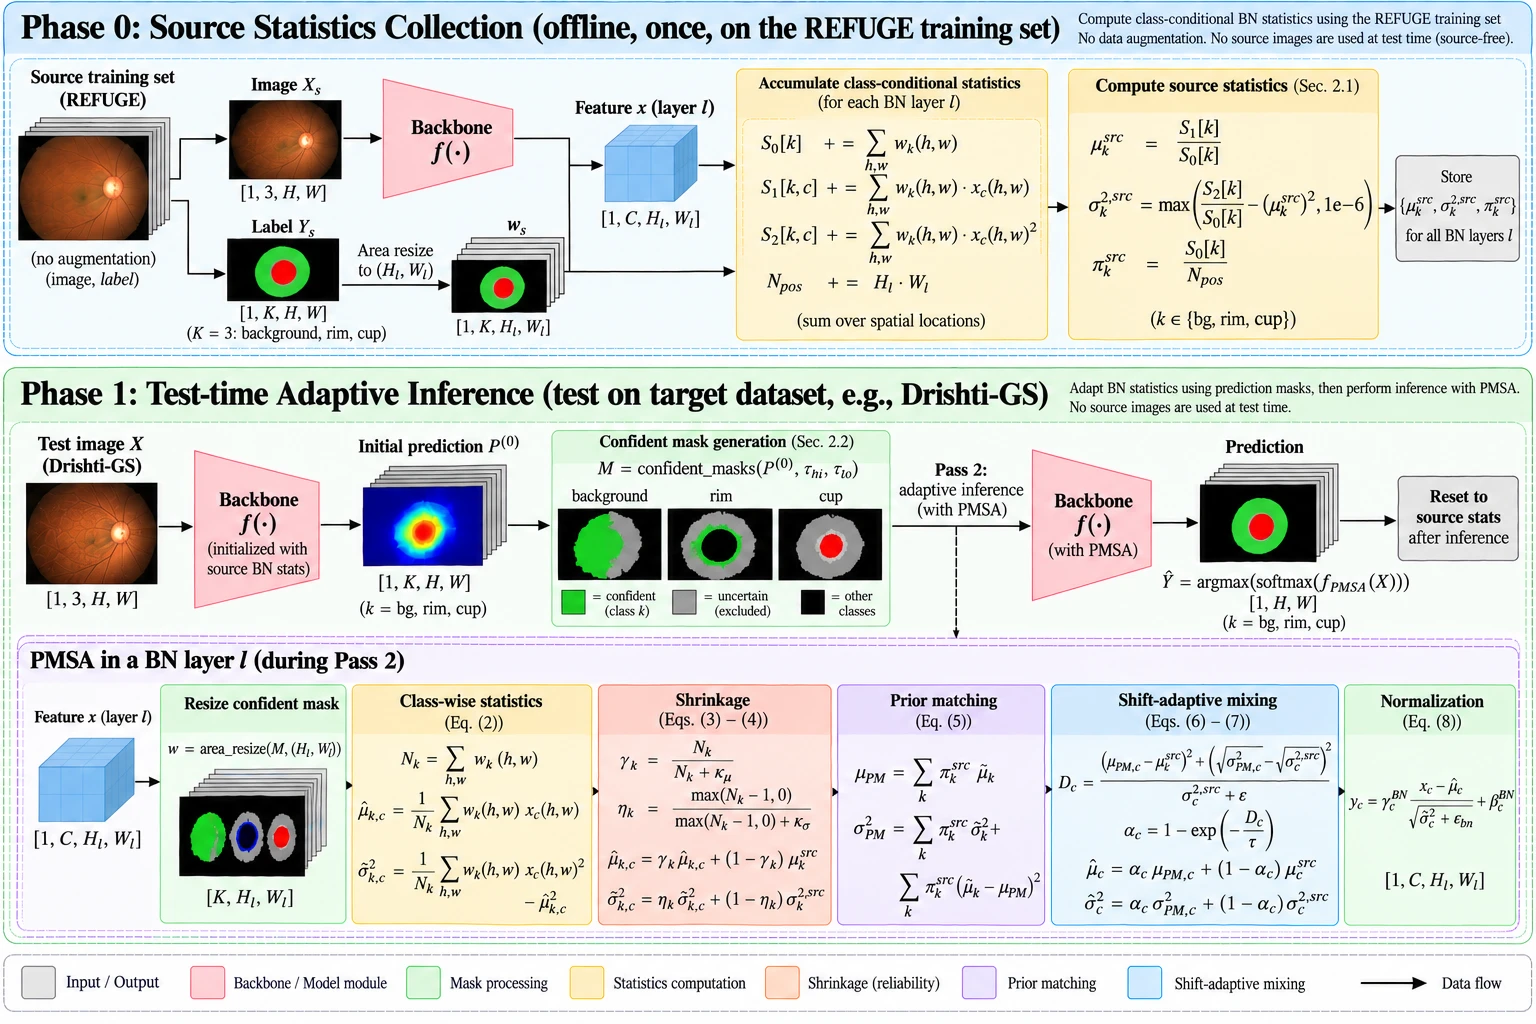
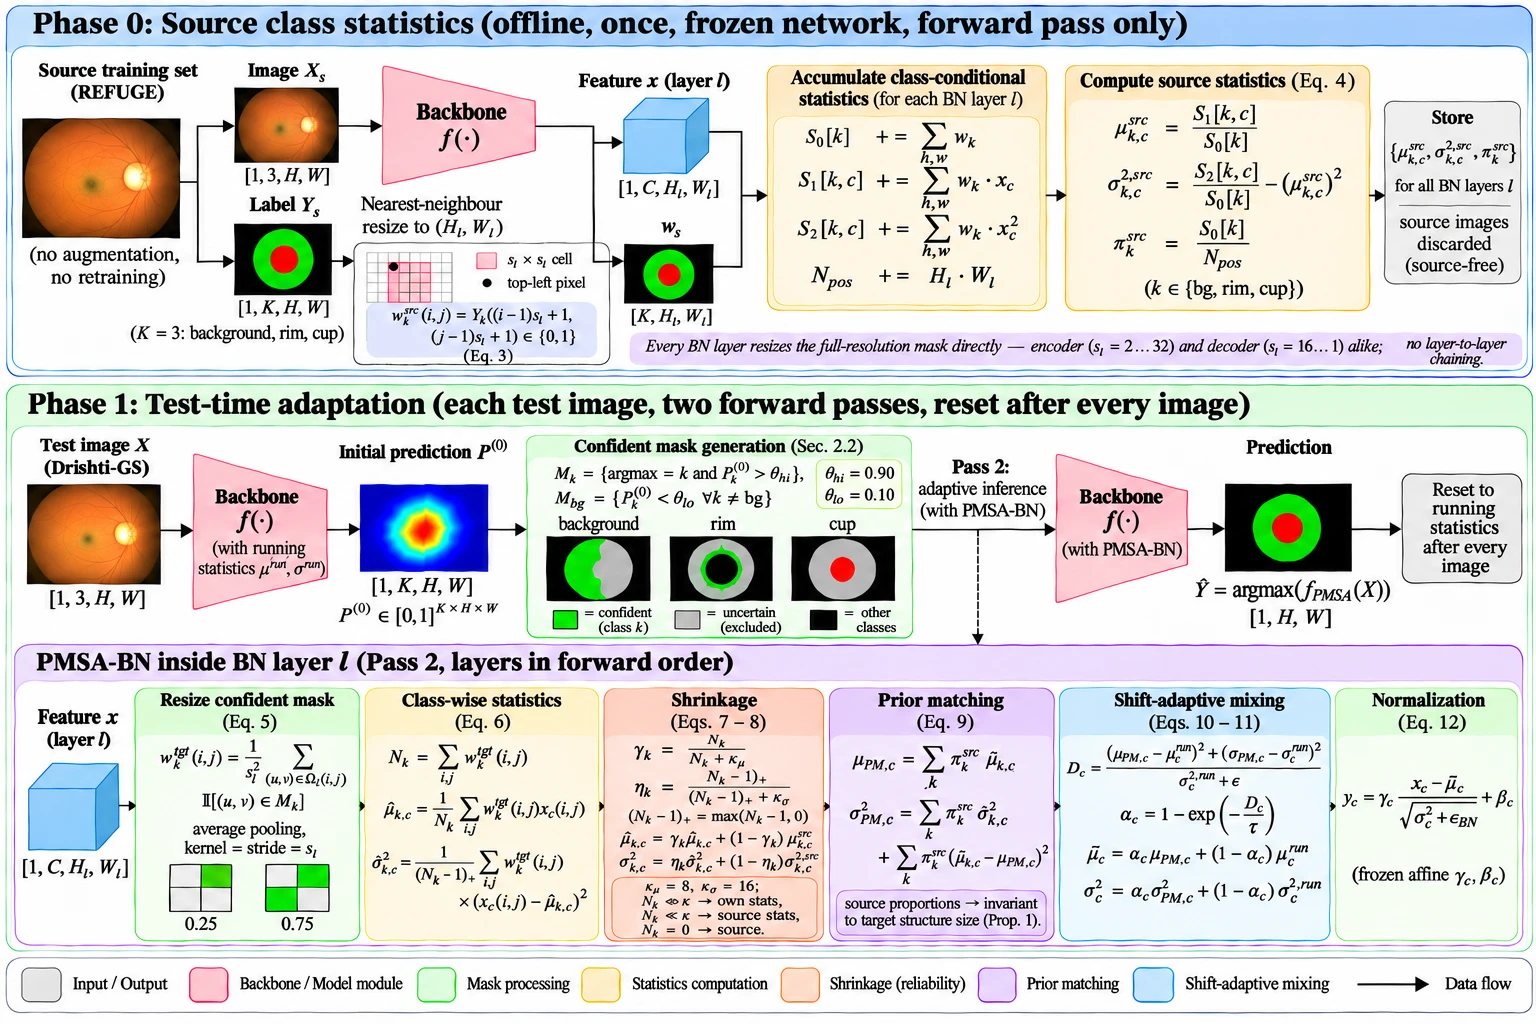
Update architecture figure: nearest-neighbour Phase 0, running statistics, paper equation numbers

diff --git a/README.md b/README.md
@@ -17,6 +17,8 @@ PMSA-BN adapts the batch-normalization (BN) statistics of a trained segmentation
 
 ![PMSA-BN architecture](figures/fig_pmsa_bn_architecture.png)
 
+*Equation numbers in the figure refer to the paper. Notation: hat = raw target statistics, tilde = shrunk, bar = mixed; superscript run = BN running statistics, src = source class statistics.*
+
 ---
 
 ## Contents
